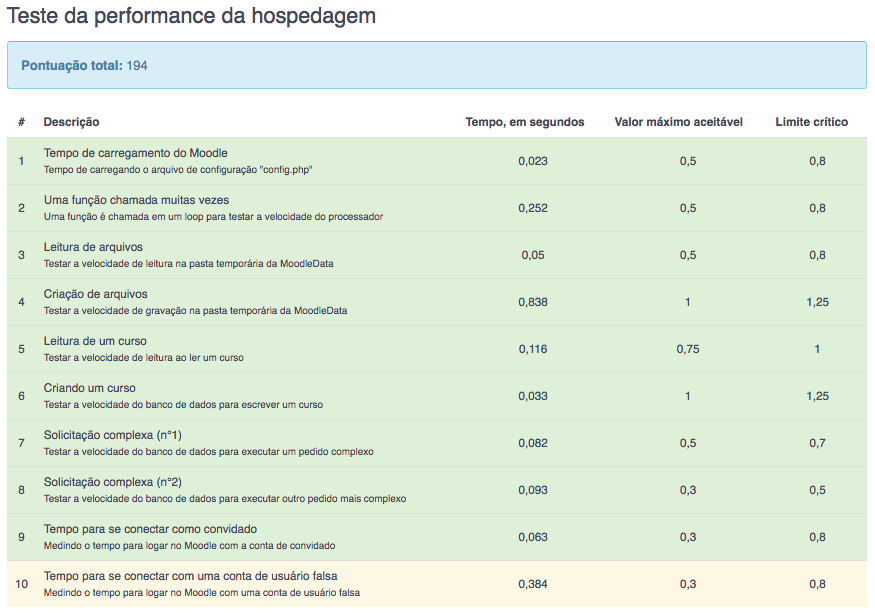
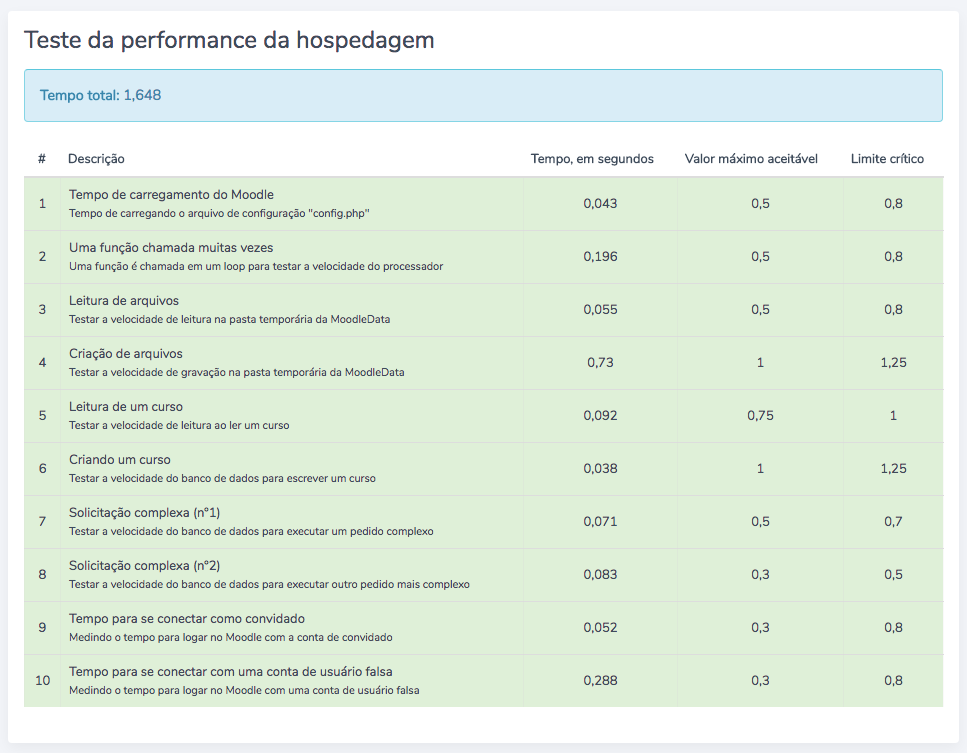
Agora benchmark mostra segundos e não pontos

diff --git a/classes/Benchmark.php b/classes/Benchmark.php
@@ -65,13 +65,13 @@ class Benchmark {
 
         $test = new ReportBenchmark();
 
-        $score = $test->get_total()["score"];
-        if ($score < 500) {
-            Mensagem::printInfo('<strong>Pontuação total:</strong> ' . $score);
-        } else if ($score < 1000) {
-            Mensagem::printWarning('<strong>Pontuação total:</strong> ' . $score);
+        $score = $test->get_total();
+        if ($score < 4) {
+            Mensagem::printInfo('<strong>Tempo total:</strong>    ' . $this->formatNumber($score));
+        } else if ($score < 8) {
+            Mensagem::printWarning('<strong>Tempo total:</strong> ' . $this->formatNumber($score));
         } else {
-            Mensagem::printDanger('<strong>Pontuação total:</strong> ' . $score);
+            Mensagem::printDanger('<strong>Tempo total:</strong>  ' . $this->formatNumber($score));
         }
 
         echo '<table class="table" id="benchmarkresult">

diff --git a/classes/report/ReportBenchmark.php b/classes/report/ReportBenchmark.php
@@ -125,9 +125,6 @@ class ReportBenchmark {
             $total += $result['during'];
         }
 
-        return array(
-            'total' => $total,
-            'score' => ceil($total * 100),
-        );
+        return $total;
     }
 }
